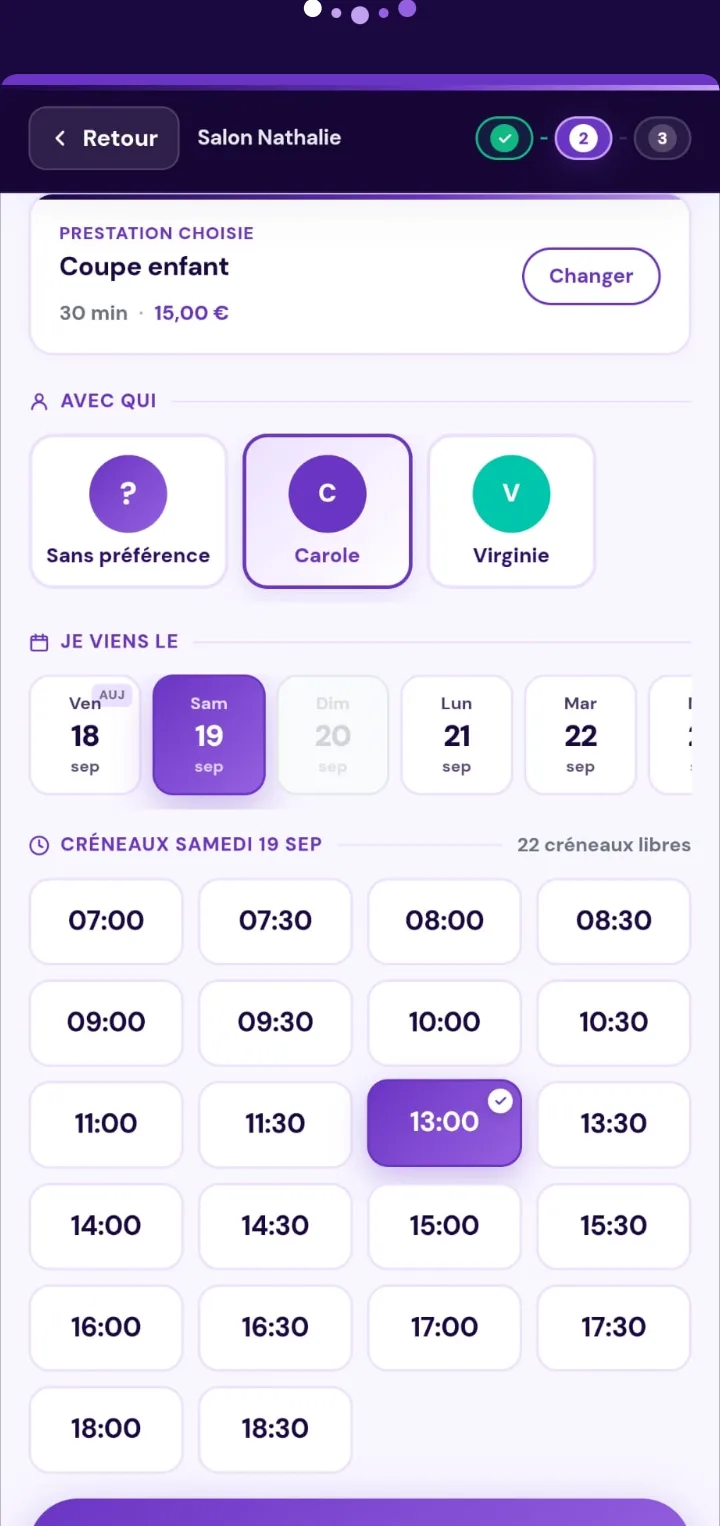
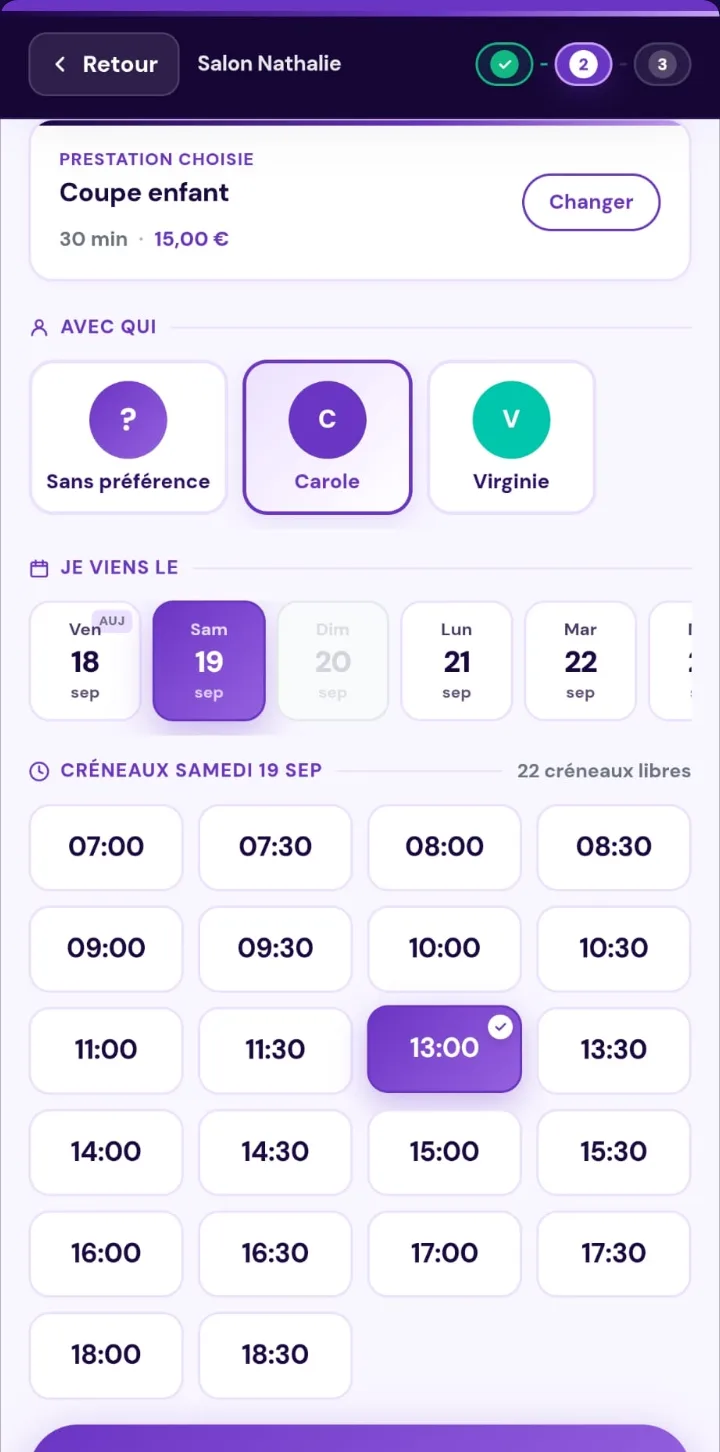
fix(captures): la capture des creneaux gardait 55 px de fond et des points tronques
🔴 TROUVE EN OUVRANT L IMAGE, pas en lisant le code. `yopper-creneaux.webp`
commencait par une bande de fond sombre du visuel store, avec les cinq points
du logo COUPES par le bord haut. Sur la landing, une bande noire et des points
tronques que personne n aurait compris.

MA DETECTION PRENAIT LA PREMIERE LIGNE NON VIDE sur quinze colonnes. Sur ce
visuel-la, dont le titre tient sur DEUX lignes, les points de la marque
descendent plus bas que le seuil de depart : ils etaient pris pour le haut du
telephone.

Elle cherche desormais la premiere ligne PLEINE, occupee sur au moins 80 % de
la largeur du cadre. Les points sont un petit groupe centre, le telephone court
d un bord a l autre : c est cette difference qu on mesure, et elle ne depend
d aucune hauteur ecrite en dur.

⚠ DEUXIEME FOIS QUE CETTE MESURE ME PREND. La premiere version lisait UNE
ligne basse pour les bords, et tombait sur la barre de navigation de l accueil.
Une mesure prise a un seul endroit n est pas une mesure.

720x1452 au lieu de 720x1526, dimension declaree mise a jour, banc des images
vert.

diff --git a/lib/captures-landing.js b/lib/captures-landing.js
@@ -144,7 +144,7 @@ export const CAPTURES_YOPPER = [
     cle: 'yopper_creneaux',
     fichier: 'yopper-creneaux.webp',
     largeur: 720,
-    hauteur: 1526,
+    hauteur: 1452,
     alt: 'La prise de rendez-vous dans un salon : la prestation choisie, le choix de la personne, le jour, puis les créneaux libres de la journée.',
     titre: 'Tu prends rendez-vous le dimanche soir',
     legende: 'Le salon est fermé, son agenda ne l’est pas. Tu choisis ta prestation, la personne si tu en as une, et l’heure qui t’arrange.',
